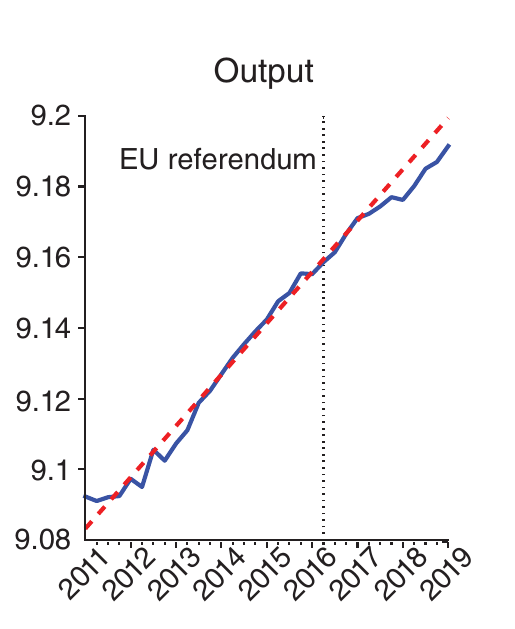
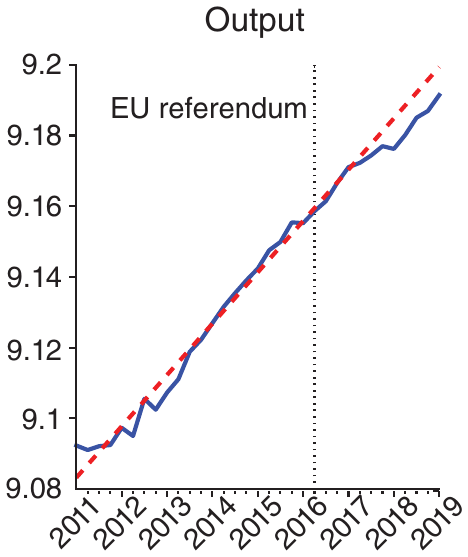
Brexit draft video: tighter white frames around paper figures

diff --git a/anim/brexit-draft.html b/anim/brexit-draft.html
@@ -25,7 +25,7 @@ html,body{margin:0;background:transparent}
 .anim .cite{font-size:1.35cqw;color:var(--muted)}
 .anim .row{display:grid;grid-template-columns:1fr 1fr;gap:4cqw;align-items:center;flex:1;min-height:0}
 .anim .row.fr{grid-template-columns:auto 1fr}
-.anim .fig{position:relative;background:#fff;border-radius:1cqw;padding:1.2cqw;height:100%;max-height:34cqw;display:flex;flex-direction:column;align-items:center;justify-content:center}
+.anim .fig{position:relative;background:#fff;border-radius:.7cqw;padding:.5cqw;height:100%;max-height:34cqw;display:flex;flex-direction:column;align-items:center;justify-content:center}
 .anim .fig .im{position:relative;height:100%;min-height:0}
 .anim .fig img{display:block;height:100%;width:auto}
 .anim .fig .gap{position:absolute;border:.28cqw solid var(--navy);border-left:0;border-radius:0 .4cqw .4cqw 0}
@@ -116,7 +116,7 @@ html,body{margin:0;background:transparent}
 <p class="p b" style="--d:3.4s"><strong>Instead,</strong> output, employment and capital slowly fell below their pre-referendum trend.</p>
 </div>
 <div class="b" style="--d:3.4s;height:100%;display:flex;flex-direction:column;align-items:center;justify-content:center">
-<div class="fig" style="max-height:32cqw"><div class="im"><img src="img/brexit-fig1-output.png" alt="Figure 1: UK real GDP per capita drifts below its pre-referendum trend after 2016"><span class="gap b" style="--d:5s;left:88%;top:18.8%;height:4.4%;width:3%"></span></div></div>
+<div class="fig" style="max-height:32cqw"><div class="im"><img src="img/brexit-fig1-output.png?v=2" alt="Figure 1: UK real GDP per capita drifts below its pre-referendum trend after 2016"><span class="gap b" style="--d:5s;left:94.9%;top:12.1%;height:5.0%;width:3.3%"></span></div></div>
 <p class="cap">UK real GDP per capita (log) and its pre-referendum trend · Figure 1</p>
 </div>
 </div>
@@ -208,7 +208,7 @@ html,body{margin:0;background:transparent}
 <p class="h">The news alone explains the slowdown</p>
 <div class="row fr">
 <div class="b" style="--d:.6s;height:100%;display:flex;flex-direction:column;align-items:center;justify-content:center">
-<div class="fig"><div class="im"><img src="img/brexit-fig2-output.png" alt="Figure 2: model output response falls to about minus 1 percent by 2018, tracking the data"><span class="gap b" style="--d:3.4s;left:93.5%;top:29.6%;height:52.3%;width:3%"></span></div></div>
+<div class="fig"><div class="im"><img src="img/brexit-fig2-output.png?v=2" alt="Figure 2: model output response falls to about minus 1 percent by 2018, tracking the data"><span class="gap b" style="--d:3.4s;left:97.7%;top:23.9%;height:59.5%;width:3.2%"></span></div></div>
 <p class="cap">Output, % deviation from trend: model vs data · Figure 2</p>
 </div>
 <div>
@@ -240,7 +240,7 @@ html,body{margin:0;background:transparent}
 <p class="h">A shorter expected wait does more damage</p>
 <div class="row fr">
 <div class="b" style="--d:.6s;height:100%;display:flex;flex-direction:column;align-items:center;justify-content:center">
-<div class="fig" style="max-height:29cqw"><div class="im"><img src="img/brexit-fig3-output.png" alt="Figure 3: output falls further when negotiations are expected to last one year"><span class="gap b" style="--d:3.4s;left:91%;top:51.2%;height:26.3%;width:3%"></span></div></div>
+<div class="fig" style="max-height:29cqw"><div class="im"><img src="img/brexit-fig3-output.png?v=2" alt="Figure 3: output falls further when negotiations are expected to last one year"><span class="gap b" style="--d:3.4s;left:98.0%;top:46.9%;height:28.9%;width:3.3%"></span></div></div>
 <div class="leg"><span><i style="background:#1f8a4c"></i>One-year expected duration</span><span><i style="background:#c8c8c8"></i>Baseline</span><span><i style="background:#f5a623"></i>Mean news set to zero</span></div>
 </div>
 <div>
